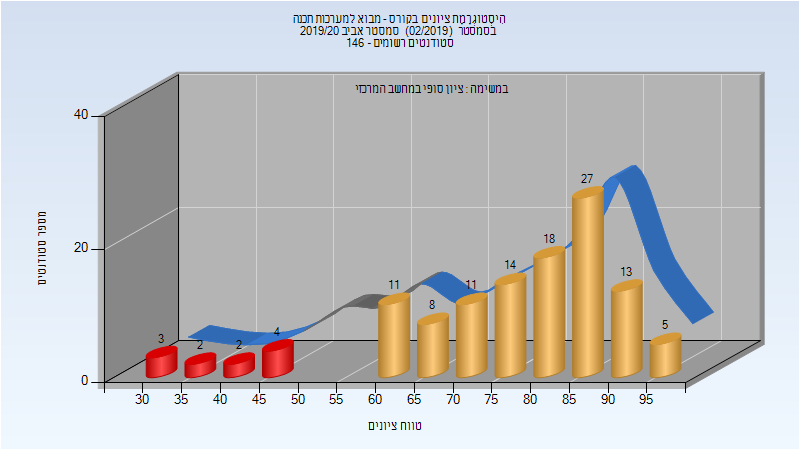
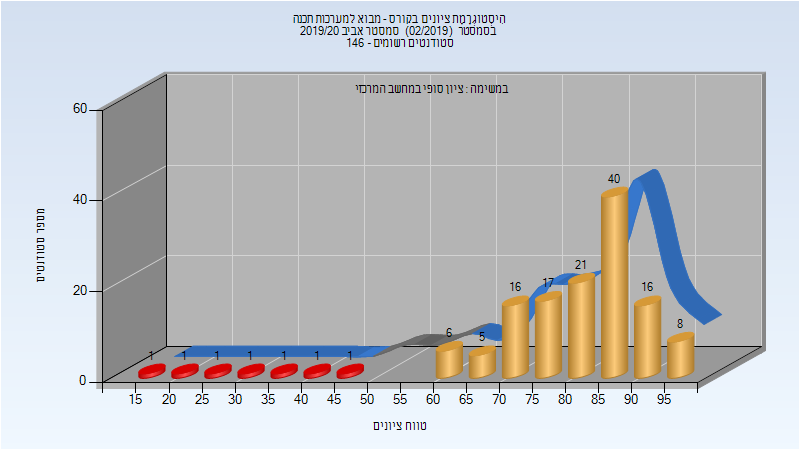
Deploy michael-maltsev/technion-histograms to github.com/michael-maltsev/technion-histograms.git:gh-pages

diff --git a/044101/index.html b/044101/index.html
@@ -1430,6 +1430,58 @@
 </tr>
 </tbody>
 </table>
+<h3>מבחן מועד ב'</h3>
+<p><img src="201902/Exam_B.png" alt="201902 Exam_B" /></p>
+<table>
+<thead>
+<tr>
+<th>סטודנטים</th>
+<th>עברו/נכשלו</th>
+<th>אחוז עוברים</th>
+<th>ציון מינימלי</th>
+<th>ציון מקסימלי</th>
+<th>ממוצע</th>
+<th>חציון</th>
+</tr>
+</thead>
+<tbody>
+<tr>
+<td>59</td>
+<td>52/7</td>
+<td>88</td>
+<td>17</td>
+<td>99</td>
+<td>71.161</td>
+<td>73</td>
+</tr>
+</tbody>
+</table>
+<h3>סופי מועד ב'</h3>
+<p><img src="201902/Final_B.png" alt="201902 Final_B" /></p>
+<table>
+<thead>
+<tr>
+<th>סטודנטים</th>
+<th>עברו/נכשלו</th>
+<th>אחוז עוברים</th>
+<th>ציון מינימלי</th>
+<th>ציון מקסימלי</th>
+<th>ממוצע</th>
+<th>חציון</th>
+</tr>
+</thead>
+<tbody>
+<tr>
+<td>59</td>
+<td>54/5</td>
+<td>92</td>
+<td>17</td>
+<td>99</td>
+<td>75.271</td>
+<td>77</td>
+</tr>
+</tbody>
+</table>
 <h3>סופי</h3>
 <p><img src="201902/Finals.png" alt="201902 Finals" /></p>
 <table>
@@ -1446,13 +1498,13 @@
 </thead>
 <tbody>
 <tr>
-<td>118</td>
-<td>107/11</td>
-<td>91</td>
-<td>31</td>
-<td>98</td>
-<td>76.636</td>
-<td>81</td>
+<td>136</td>
+<td>129/7</td>
+<td>95</td>
+<td>17</td>
+<td>99</td>
+<td>79.868</td>
+<td>84</td>
 </tr>
 </tbody>
 </table>

diff --git a/044101/README.md b/044101/README.md
@@ -443,11 +443,27 @@
 | ---- | ---- | ---- | ---- | ---- | ---- | ---- |
 | 118 | 107/11 | 91 | 31 | 98 | 76.661 | 81 |
 
+### מבחן מועד ב'
+
+![201902 Exam_B](201902/Exam_B.png)
+
+| סטודנטים | עברו/נכשלו | אחוז עוברים | ציון מינימלי | ציון מקסימלי | ממוצע | חציון |
+| ---- | ---- | ---- | ---- | ---- | ---- | ---- |
+| 59 | 52/7 | 88 | 17 | 99 | 71.161 | 73 |
+
+### סופי מועד ב'
+
+![201902 Final_B](201902/Final_B.png)
+
+| סטודנטים | עברו/נכשלו | אחוז עוברים | ציון מינימלי | ציון מקסימלי | ממוצע | חציון |
+| ---- | ---- | ---- | ---- | ---- | ---- | ---- |
+| 59 | 54/5 | 92 | 17 | 99 | 75.271 | 77 |
+
 ### סופי
 
 ![201902 Finals](201902/Finals.png)
 
 | סטודנטים | עברו/נכשלו | אחוז עוברים | ציון מינימלי | ציון מקסימלי | ממוצע | חציון |
 | ---- | ---- | ---- | ---- | ---- | ---- | ---- |
-| 118 | 107/11 | 91 | 31 | 98 | 76.636 | 81 |
+| 136 | 129/7 | 95 | 17 | 99 | 79.868 | 84 |
 
